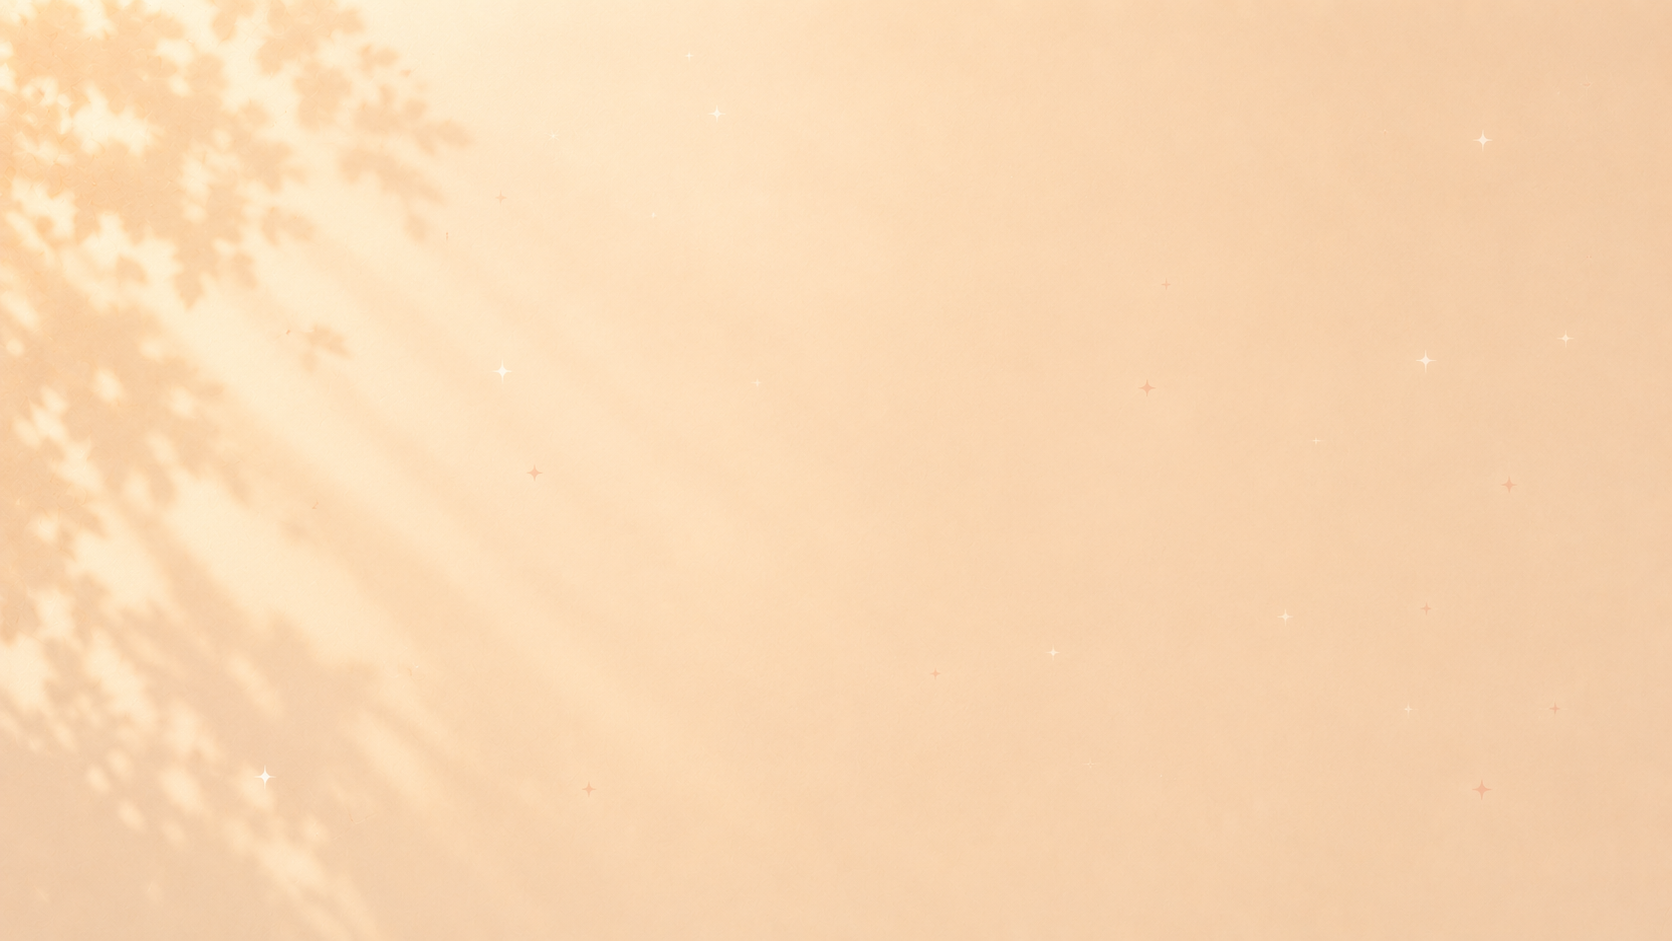
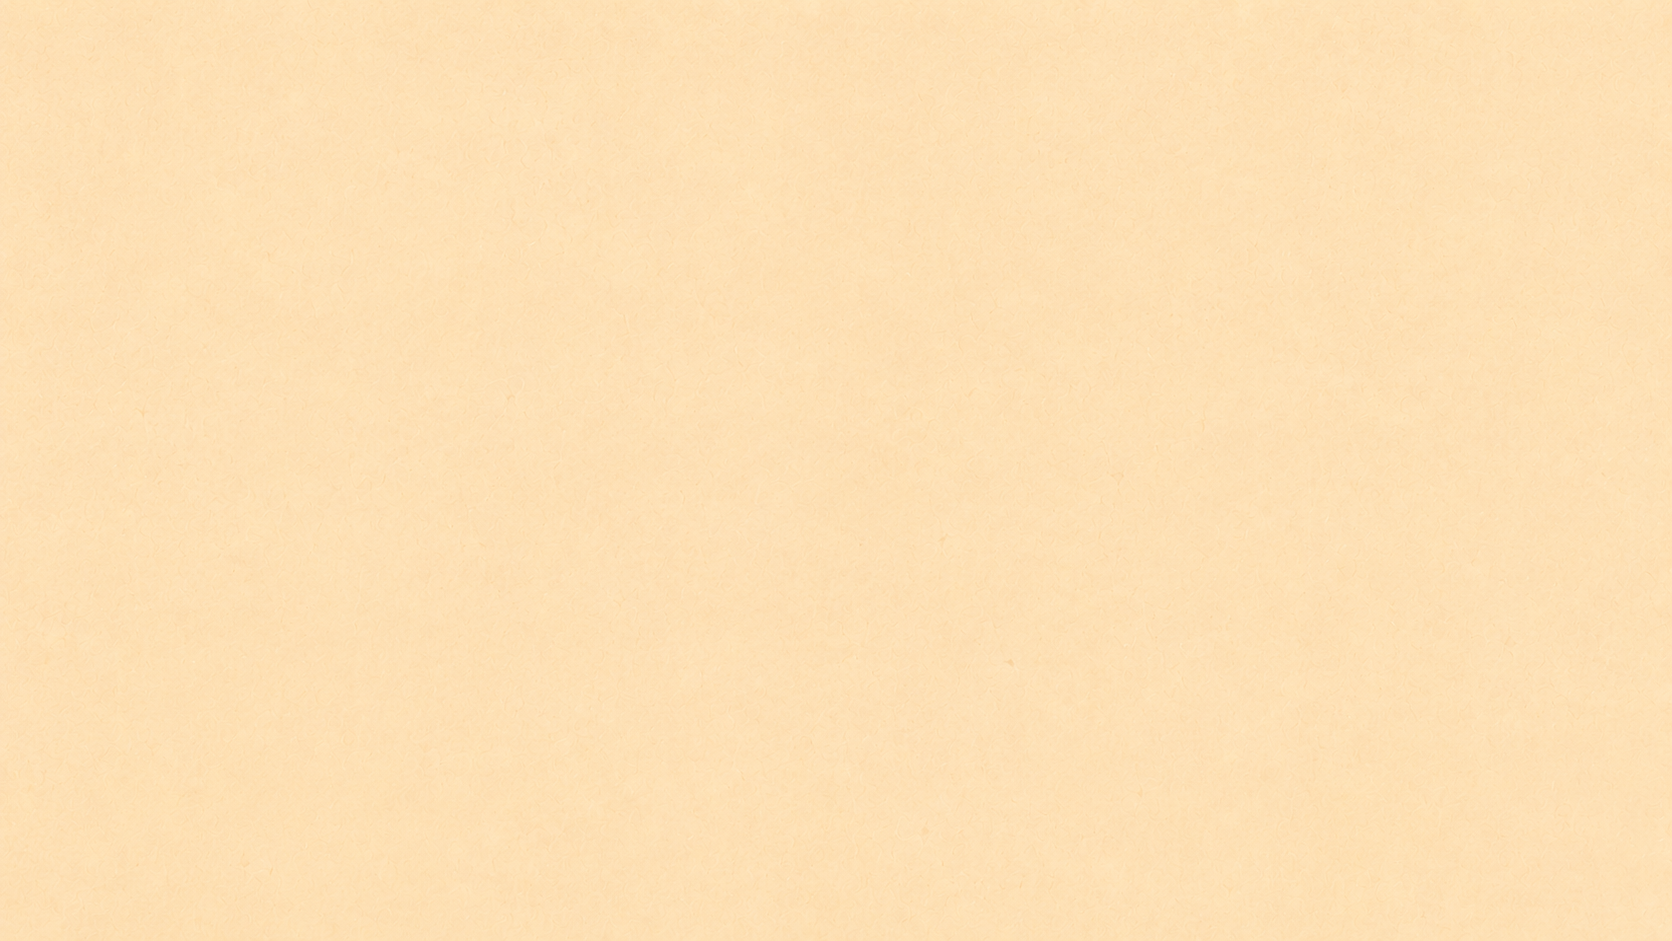
Persistent nav + background1.png for second page
- Nav moved outside first-screen, now position:fixed with frosted
  butter background so it floats over all sections while scrolling
- first-screen gets padding-top:64px to clear the fixed nav
- features + FAQ + footer wrapped in .page-rest with background1.png

diff --git a/index.html b/index.html
@@ -36,13 +36,19 @@
 
     /* ── Nav ── */
     nav {
+      position: fixed;
+      top: 0;
+      left: 0;
+      right: 0;
+      z-index: 200;
       display: flex;
       align-items: center;
       justify-content: space-between;
-      padding: 22px 32px;
-      max-width: 1440px;
-      width: 100%;
-      margin: 0 auto;
+      padding: 18px 32px;
+      max-width: 100%;
+      background: rgba(244, 217, 166, 0.82);
+      backdrop-filter: blur(14px);
+      -webkit-backdrop-filter: blur(14px);
     }
     .nav-logo {
       font-family: 'Spectral', Georgia, serif;
@@ -343,13 +349,22 @@
       font-style: italic;
     }
 
-    /* ── First-screen wrapper — nav + hero + scroll cue fill the viewport ── */
+    /* ── First-screen wrapper — hero + scroll cue fill the viewport below fixed nav ── */
     .first-screen {
       height: 100vh;
+      padding-top: 64px; /* clear the fixed nav */
       display: flex;
       flex-direction: column;
-      overflow: hidden; /* hard cap at viewport height so scroll cue is always visible */
+      overflow: hidden;
       background-image: url('background.png');
+      background-size: cover;
+      background-position: center;
+      background-repeat: no-repeat;
+    }
+
+    /* ── Second page wrapper ── */
+    .page-rest {
+      background-image: url('background1.png');
       background-size: cover;
       background-position: center;
       background-repeat: no-repeat;
@@ -616,8 +631,7 @@
 </head>
 <body>
 
-<div class="first-screen">
-<!-- NAV -->
+<!-- NAV — fixed, persists across all sections -->
 <nav>
   <a class="nav-logo" href="index.html">keepsake.<span class="logo-spark">✦</span></a>
   <div class="nav-right">
@@ -626,6 +640,8 @@
     <a class="nav-cta" href="#">✧ download</a>
   </div>
 </nav>
+
+<div class="first-screen">
 
 <!--
   PAGE TOP
@@ -704,6 +720,8 @@
 </div>
 
 </div><!-- /.first-screen -->
+
+<div class="page-rest">
 
 <!-- FEATURES -->
 <section class="features">
@@ -801,6 +819,8 @@
 
 <!-- FOOTER -->
 <footer>Keepsake &nbsp;·&nbsp; Works on Spotify Web Player &nbsp;·&nbsp; <a href="faq.html" style="color:inherit;text-decoration:none;">FAQ</a> &nbsp;·&nbsp; <a href="auth.html" style="color:inherit;text-decoration:none;">Sign in</a> &nbsp;·&nbsp; <a href="privacy.html" style="color:inherit;text-decoration:none;">Privacy</a></footer>
+
+</div><!-- /.page-rest -->
 
 <!-- Grain overlay -->
 <svg xmlns="http://www.w3.org/2000/svg"